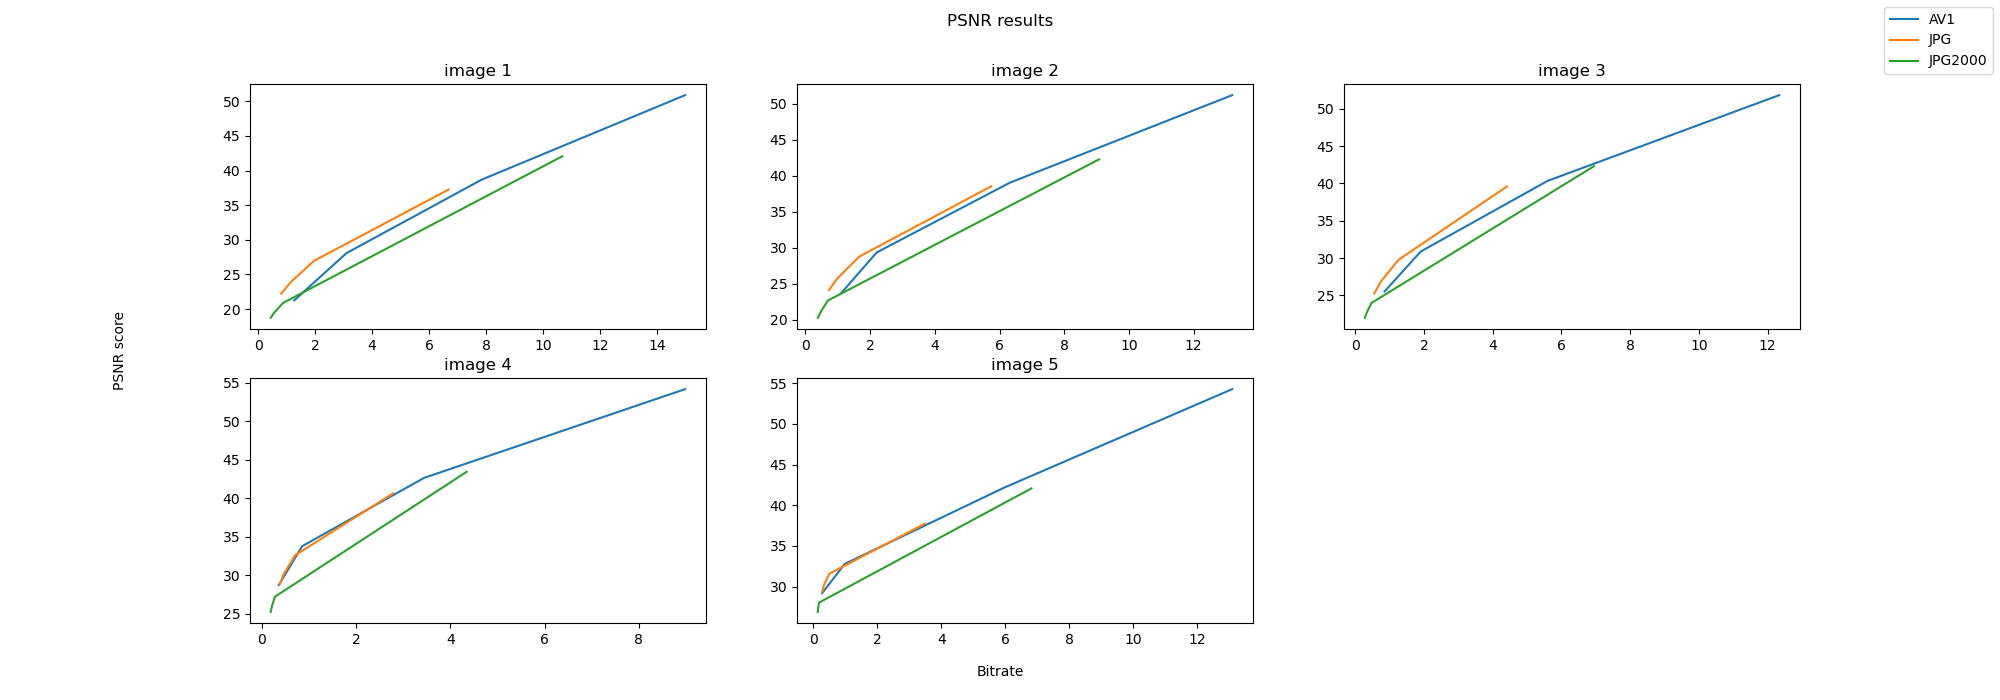
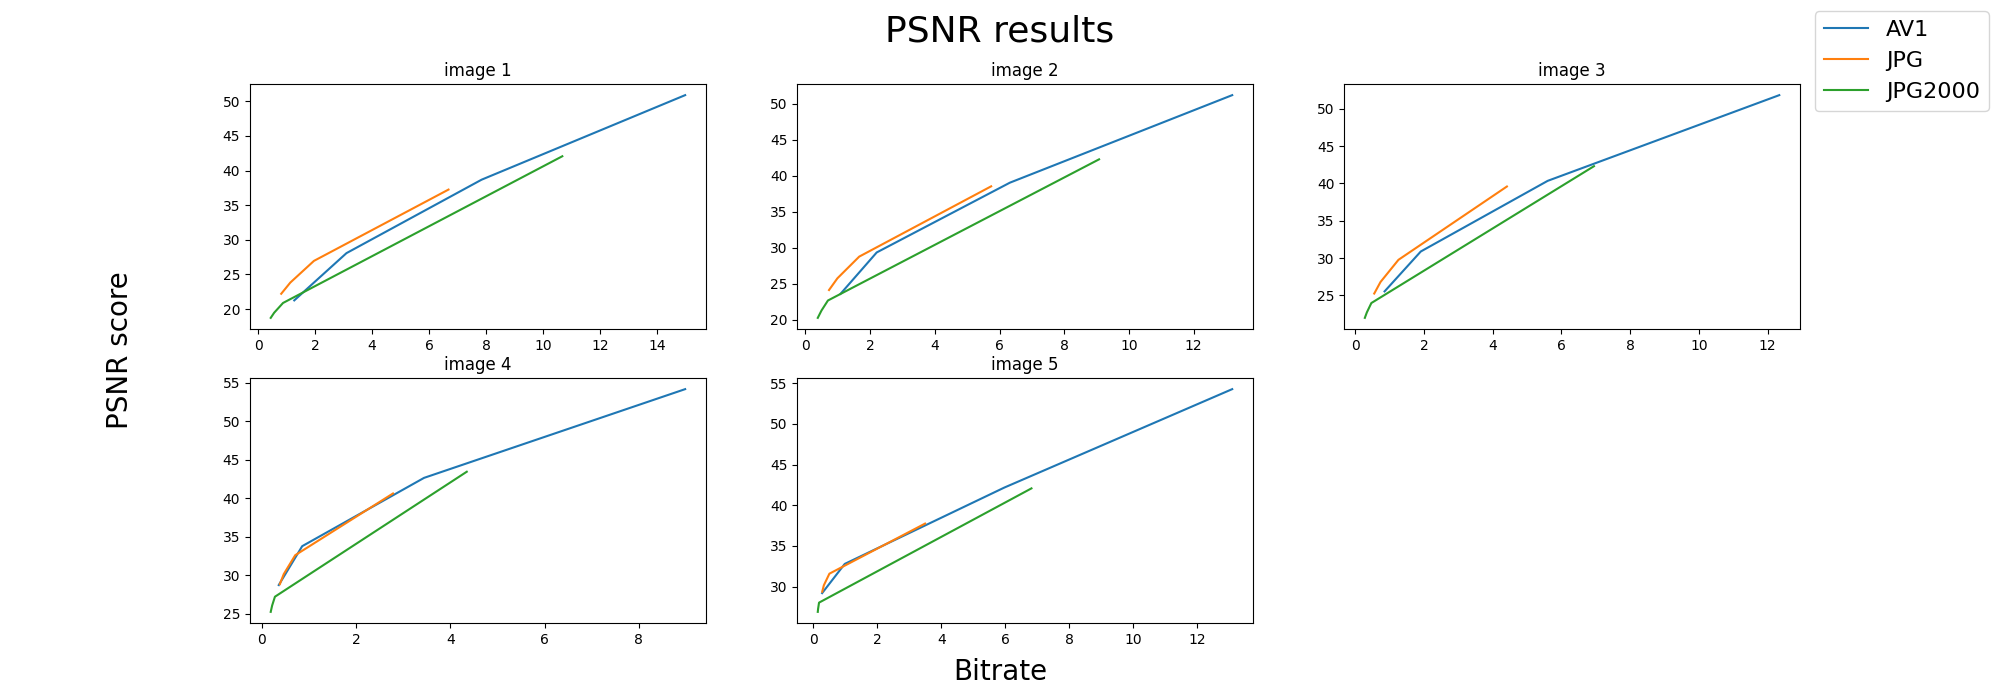
Updated MOS grpahics

diff --git a/generateGraphs.py b/generateGraphs.py
@@ -61,11 +61,11 @@ def create_graph(file_path, results_list, codecs):
                 axes[1][j - 3].plot(X[i], codec_results, label='_nolegend_')
                 axes[1][j - 3].set_title(f"image {j + 1}")
 
-    fig.suptitle(f"{file_path.split('/')[-1]} results")
+    fig.suptitle(f"{file_path.split('/')[-1]} results", fontsize=26)
     fig.delaxes(axes[1][2])
-    fig.text(0.5, 0.04, 'Bitrate', ha='center', va='center')
-    fig.text(0.06, 0.5, f"{file_path.split('/')[-1]} score", ha='center', va='center', rotation='vertical')
-    fig.legend()
+    fig.text(0.5, 0.04, 'Bitrate', ha='center', va='center', fontsize=20)
+    fig.text(0.06, 0.5, f"{file_path.split('/')[-1]} score", ha='center', va='center', rotation='vertical', fontsize=20)
+    fig.legend(fontsize=16)
     fig.savefig(file_path)
 
 def create_objective_graphs():
@@ -107,24 +107,24 @@ def create_graph_mos(file_path, results_list, confidence_intervals, codecs):
             yerr = np.array(confidence_intervals[j][i]).reshape(2, -1)
             if j == 0:
                 axes[0][j].errorbar(X[i], codec_results, yerr=yerr, label=codecs[i], 
-                        marker=marker_list[i], capsize=5, capthick=2, alpha=0.7)
+                        marker=marker_list[i], capsize=5, capthick=2, alpha=0.7, linestyle='')
                 axes[0][j].set_title(f"image {j + 1}")
             elif j < 3:
                 axes[0][j].errorbar(X[i], codec_results, yerr=yerr, label='_nolegend_', 
-                        marker=marker_list[i], capsize=5, capthick=2, alpha=0.7)
+                        marker=marker_list[i], capsize=5, capthick=2, alpha=0.7, linestyle='')
                 axes[0][j].set_title(f"image {j + 1}")
             else: 
                 axes[1][j - 3].errorbar(X[i], codec_results, yerr=yerr, label='_nolegend_', 
-                        marker=marker_list[i], capsize=5, capthick=2, alpha=0.7)
+                        marker=marker_list[i], capsize=5, capthick=2, alpha=0.7, linestyle='')
                 axes[1][j - 3].set_title(f"image {j + 1}")
 
     
     # plt.subplots_adjust(wspace=0, hspace=0)
-    fig.suptitle('MOS results')
+    fig.suptitle('MOS results', fontsize=26)
     fig.delaxes(axes[1][2])
-    fig.text(0.5, 0.04, 'Bitrate', ha='center', va='center')
-    fig.text(0.06, 0.5, 'MOS score', ha='center', va='center', rotation='vertical')
-    fig.legend()
+    fig.text(0.5, 0.04, 'Bitrate', ha='center', va='center', fontsize=20)
+    fig.text(0.06, 0.5, 'MOS score', ha='center', va='center', rotation='vertical', fontsize=20)
+    fig.legend(fontsize=16)
     fig.savefig(file_path)
 
 def create_mos_graphs():
